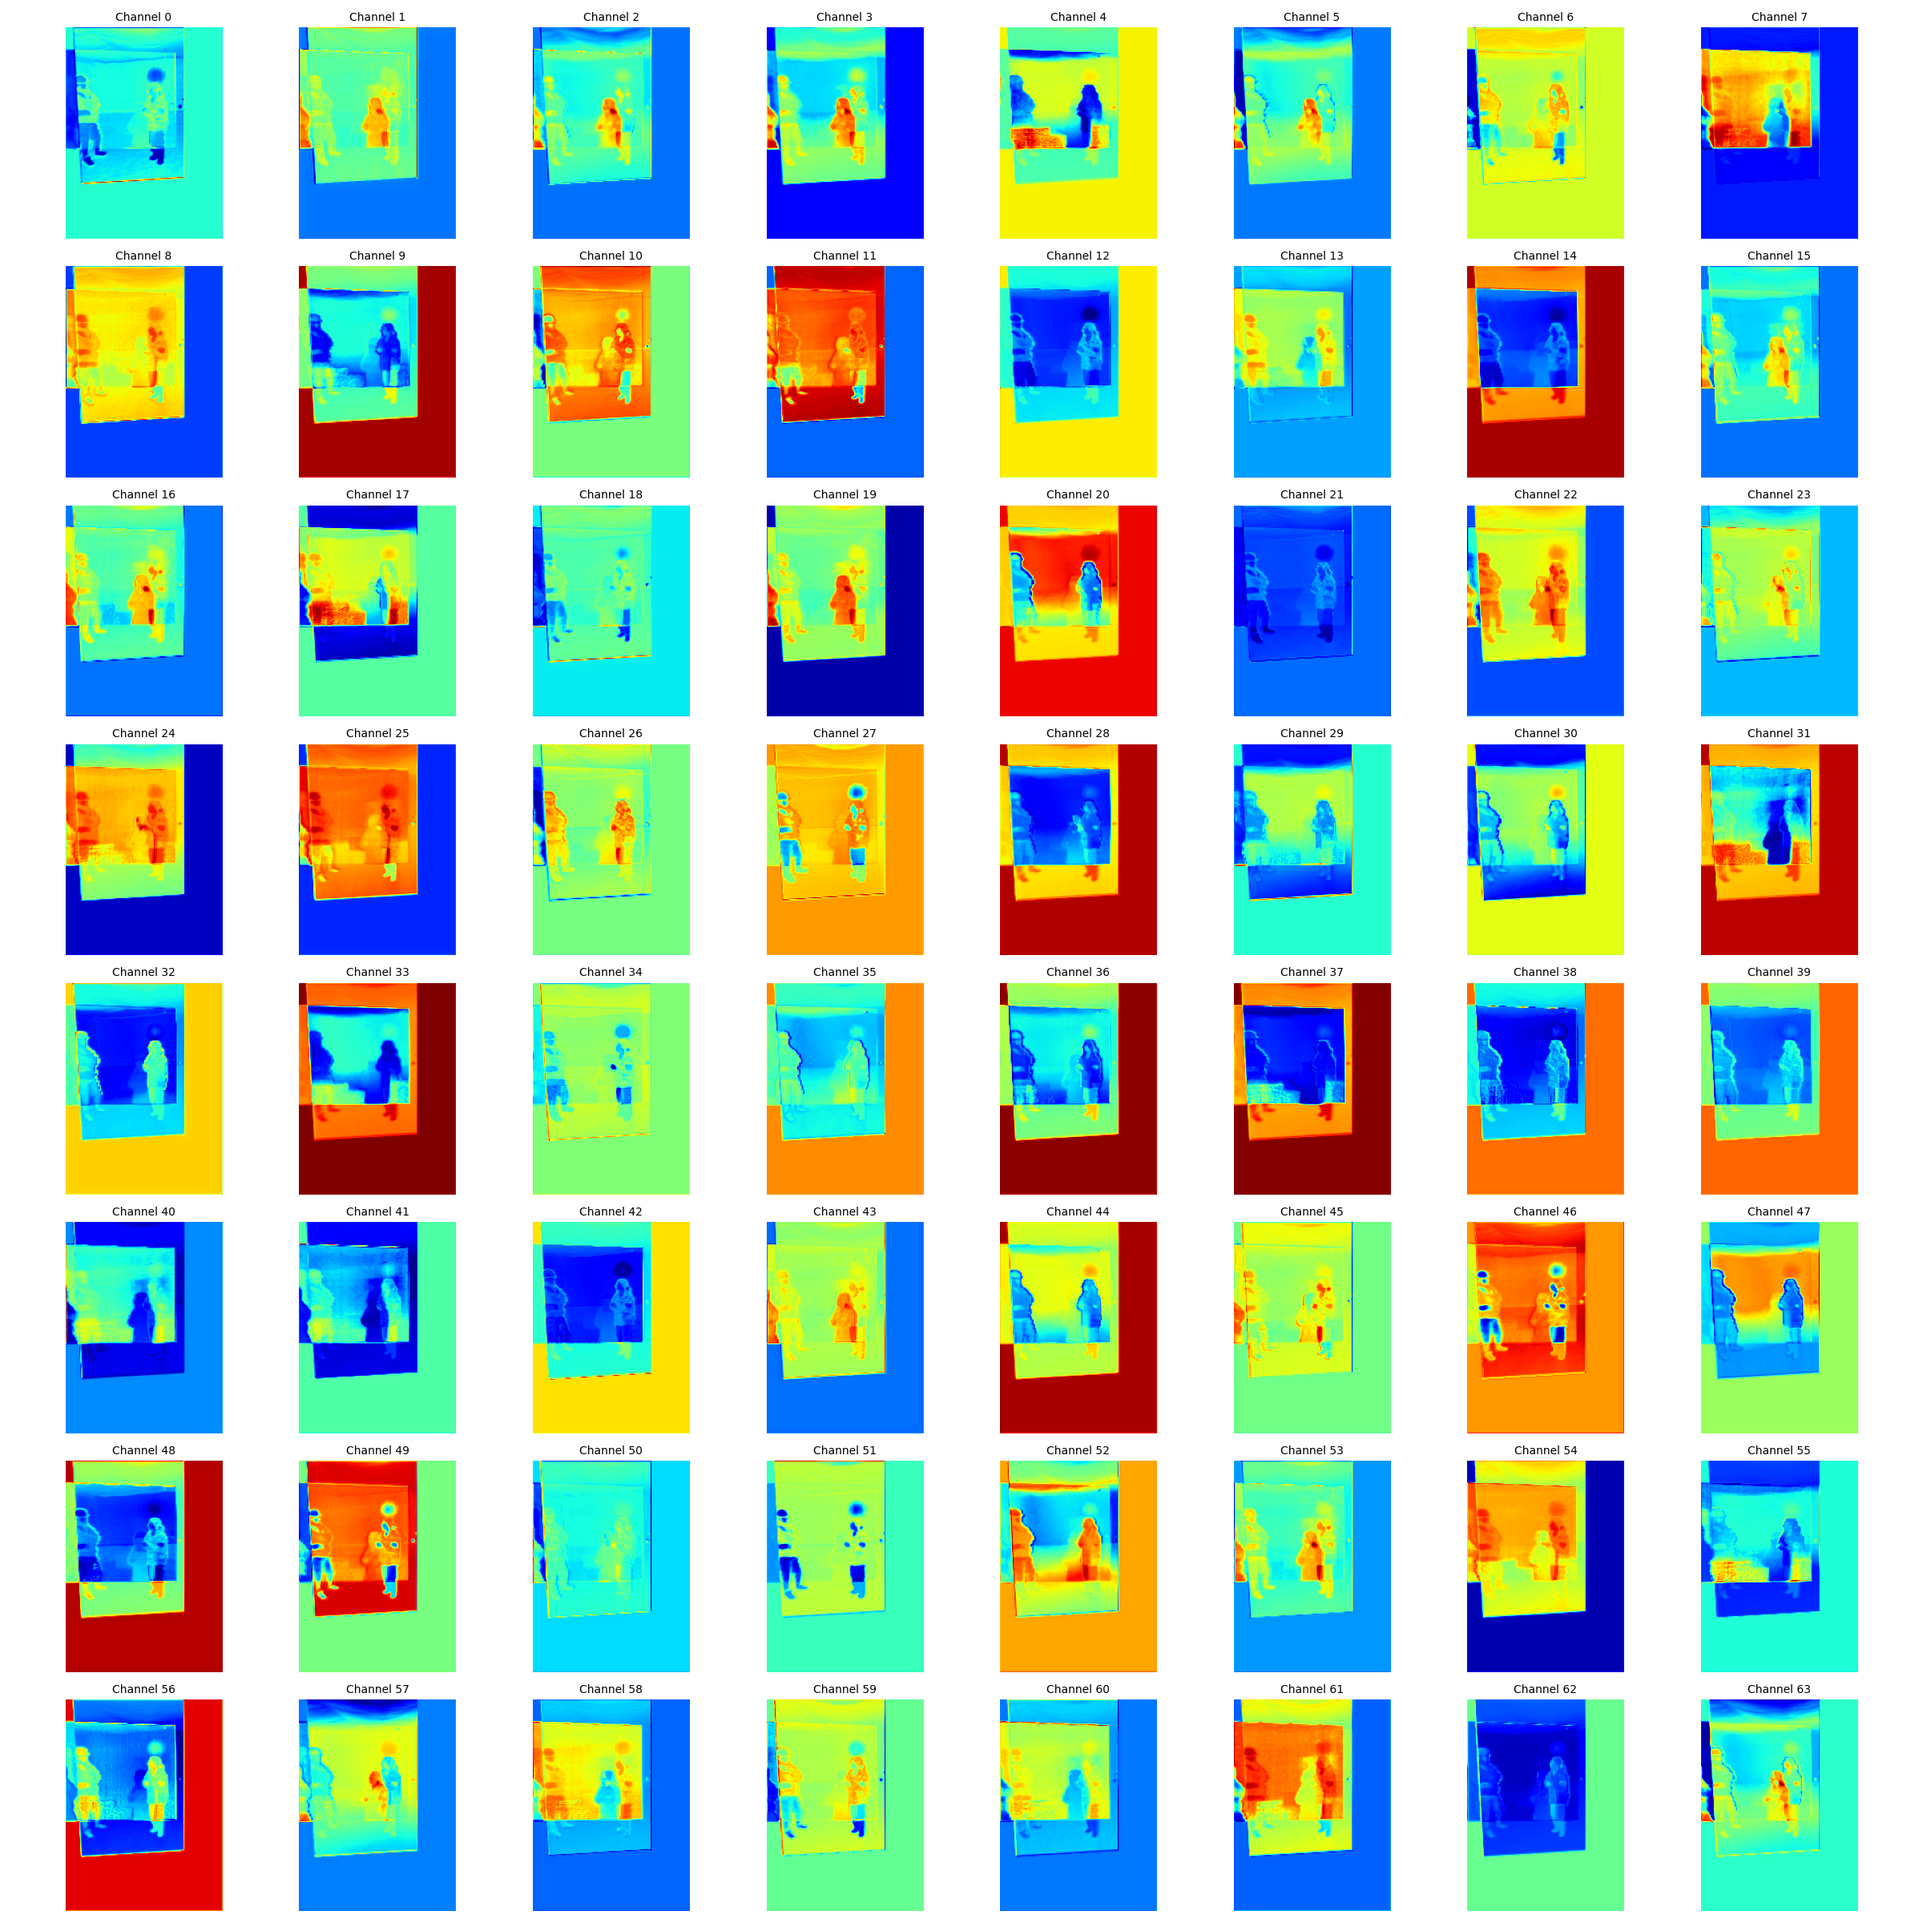
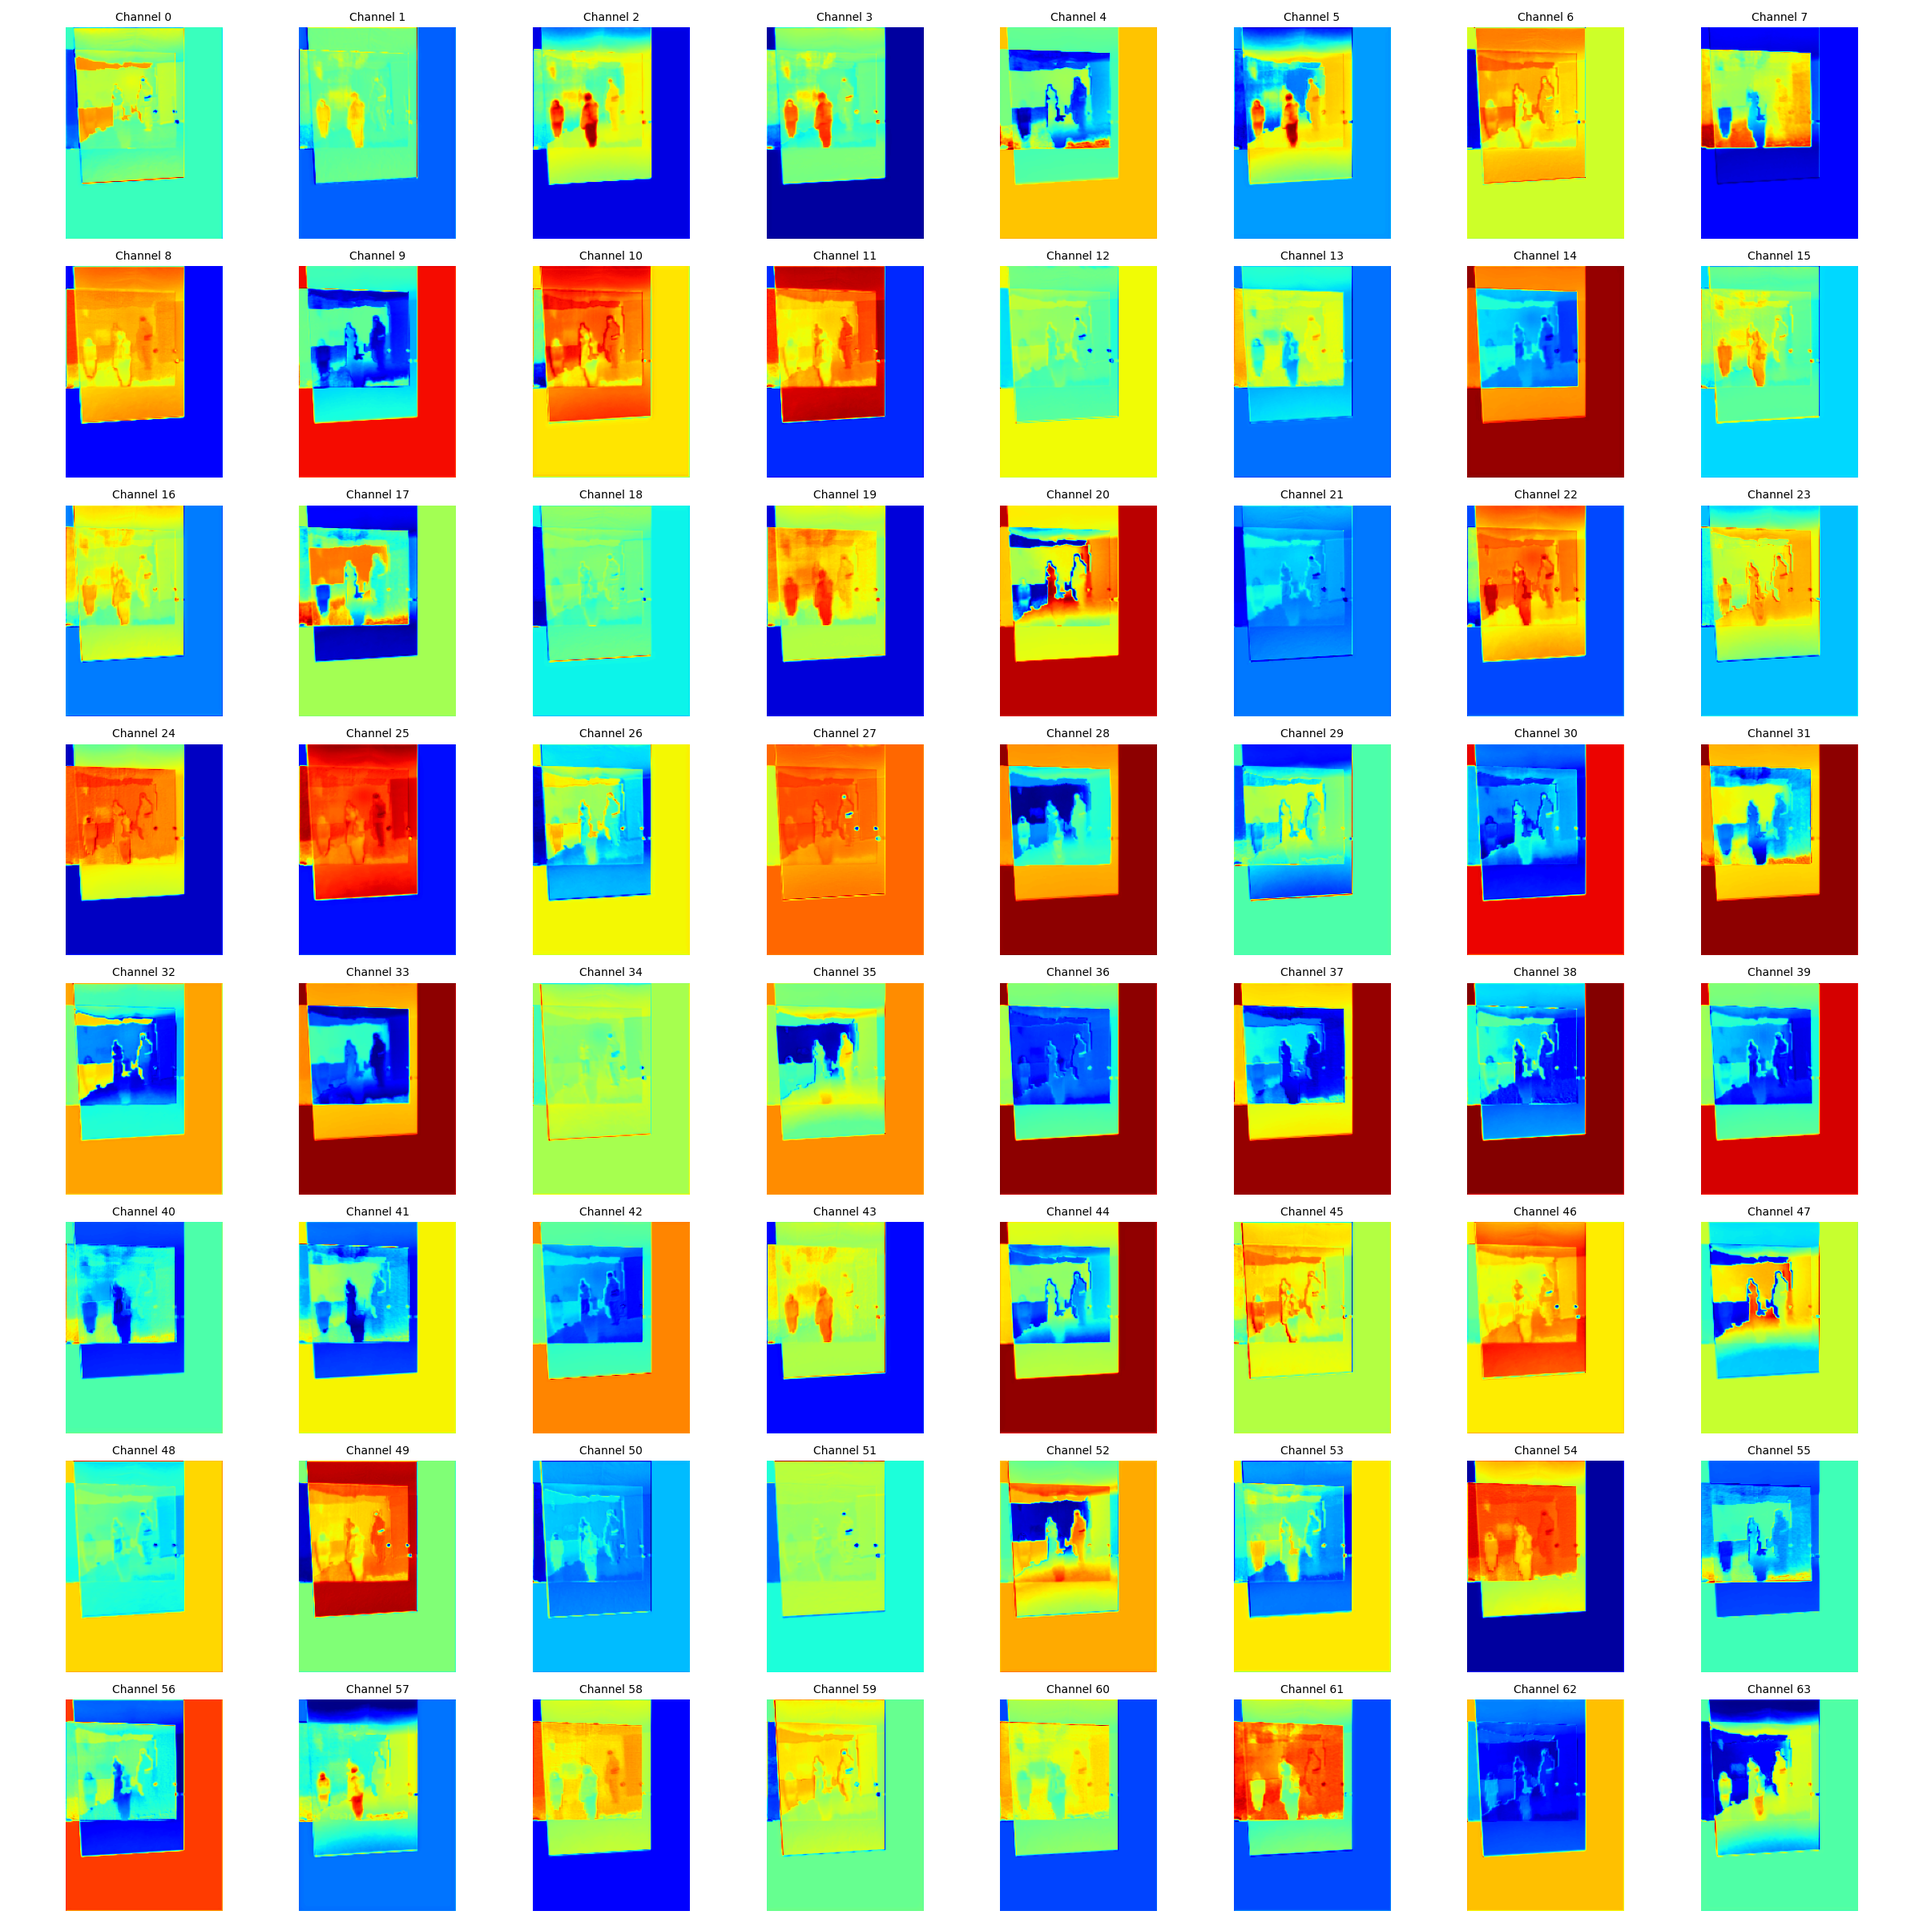
Update : cmnextp - proposed channel weighted softmix fusion method

diff --git a/mcdet/models/backbones/cmnextp.py b/mcdet/models/backbones/cmnextp.py
@@ -1,4 +1,4 @@
-# mcdet/models/backbones/cmnext_masked.py
+# mcdet/models/backbones/cmnextp.py
 
 import torch
 import math
@@ -50,8 +50,6 @@ def load_dualpath_model(model, model_file):
     msg = model.load_state_dict(state_dict, strict=False)
     print(f"[CMNext] Pretrained model loaded: {msg}")
     del state_dict
-
-
 
 def _no_grad_trunc_normal_(tensor, mean, std, a, b):
     # Cut & paste from PyTorch official master until it's in a few official releases - RW
@@ -155,7 +153,7 @@ class CMNextBaseModel(BaseModule):
 
 
 @MODELS.register_module()
-class CMNextMaskedBackbone(BaseModule):
+class CMNeXtPBackbone(BaseModule):
     """CMNext backbone for multimodal object detection.
     
     This backbone processes multimodal inputs (RGB, Depth, Event, LiDAR) 
@@ -171,7 +169,7 @@ class CMNextMaskedBackbone(BaseModule):
     """
     
     def __init__(self,
-                 backbone: str = 'CMNeXtMasked-B2',
+                 backbone: str = 'CMNeXtP-B2',
                  modals: List[str] = ['rgb', 'depth', 'event', 'lidar'],
                  out_indices: Tuple[int] = (0, 1, 2, 3),
                  frozen_stages: int = -1,
@@ -595,7 +593,7 @@ cmnext_settings = {
 }
 
 
-class CMNeXtMasked(nn.Module):
+class CMNeXtP(nn.Module):
     def __init__(self, model_name: str = 'B0', modals: list = ['rgb', 'depth', 'event', 'lidar']):
         super().__init__()
         self.iter = 0
@@ -666,14 +664,27 @@ class CMNeXtMasked(nn.Module):
                 FFM(dim=embed_dims[1], reduction=1, num_heads=num_heads[1], norm_layer=nn.BatchNorm2d),
                 FFM(dim=embed_dims[2], reduction=1, num_heads=num_heads[2], norm_layer=nn.BatchNorm2d),
                 FFM(dim=embed_dims[3], reduction=1, num_heads=num_heads[3], norm_layer=nn.BatchNorm2d)])
+            
+    def tokenselect2(self, x_ext: List[Tensor], module: nn.Module) -> Tuple[Tensor, List[Tensor], Tensor]:
+        """
+        [개선된 Soft Mix + 로깅 버전]
+        기존 soft mix 로직을 유지하면서, 각 모달리티의 기여도를 담고 있는
+        attention_weights 맵을 추가로 반환합니다.
+        """
+        # 1. 각 모달리티의 스코어 맵 계산
+        x_scores = module(x_ext)
 
-    def tokenselect(self, x_ext, module):    
-        x_scores = module(x_ext)                            #score 에서 token을 선택
-        for i in range(len(x_ext)):
-            x_ext[i] = x_scores[i] * x_ext[i] + x_ext[i]
-        x_f = functools.reduce(torch.max, x_ext)
-        return x_f, x_scores
-     
+        # 2. 스코어 정규화 (Softmax 적용)
+        stacked_scores = torch.cat(x_scores, dim=1)
+        attention_weights = F.softmax(stacked_scores, dim=1) # Shape: (B, num_modals, H, W)
+
+        # 3. 피쳐 가중합 (Weighted Sum)
+        stacked_features = torch.stack(x_ext, dim=1)
+        weighted_features = stacked_features * attention_weights.unsqueeze(2)
+        x_f = torch.sum(weighted_features, dim=1)
+
+        return x_f, x_scores, attention_weights
+    
     def forward(self, x: list) -> list:
         modal_list = ["depth", "ir", "lidar"]
         x_cam = x[0]        
@@ -683,13 +694,13 @@ class CMNeXtMasked(nn.Module):
         outs = []
         
         # ------------------------- STAGE 1 -------------------------
-        x_cam, H, W = self.patch_embed1(x_cam)
+        x_cam_p, H, W = self.patch_embed1(x_cam)
         for blk in self.block1:
-            x_cam = blk(x_cam, H, W)
+            x_cam = blk(x_cam_p, H, W)
         x1_cam = self.norm1(x_cam).reshape(B, H, W, -1).permute(0, 3, 1, 2)
         if self.num_modals > 0:
-            x_ext, _, _ = self.extra_downsample_layers[0](x_ext)
-            x_f, x_scores = self.tokenselect(x_ext, self.extra_score_predictor[0]) if self.num_modals > 1 else (x_ext[0], None)    
+            x_ext_down, _, _ = self.extra_downsample_layers[0](x_ext)
+            x_f, x_scores, winner_indices = self.tokenselect2(x_ext, self.extra_score_predictor[0]) if self.num_modals > 1 else (x_ext[0], None, None)
             for blk in self.extra_block1:
                 x_f = blk(x_f)
             x1_f_ = self.extra_norm1(x_f)
@@ -717,6 +728,12 @@ class CMNeXtMasked(nn.Module):
                             wandb.log({"val/stage1_FRM": wandb.Image("./wandb_val_img/stage1_FRM.png")})
                             vis_tensor_single_batch_grid(x_fused, batch=0, save_path="./wandb_val_img/stage1_FFM.png")
                             wandb.log({"val/stage1_FFM": wandb.Image("./wandb_val_img/stage1_FFM.png")})
+                           log_soft_mix_stats(
+                                attention_map=attention_weights,
+                                modality_names=self.modals,
+                                log_prefix="val/stage1"
+                            )
+                                   
 
             outs.append(x_fused)
             x_ext = [x_.reshape(B, H, W, -1).permute(0, 3, 1, 2) + x1_f for x_ in x_ext] if self.num_modals > 1 else [x1_f]
@@ -730,7 +747,7 @@ class CMNeXtMasked(nn.Module):
         x2_cam = self.norm2(x_cam).reshape(B, H, W, -1).permute(0, 3, 1, 2)
         if self.num_modals > 0:
             x_ext, _, _ = self.extra_downsample_layers[1](x_ext)
-            x_f, x_scores = self.tokenselect(x_ext, self.extra_score_predictor[1]) if self.num_modals > 1 else x_ext[0] 
+            x_f, x_scores, winner_indices = self.tokenselect2(x_ext, self.extra_score_predictor[1]) if self.num_modals > 1 else x_ext[0] 
             for blk in self.extra_block2:
                 x_f = blk(x_f)
             x2_f_ = self.extra_norm2(x_f)
@@ -755,6 +772,11 @@ class CMNeXtMasked(nn.Module):
                             wandb.log({"val/stage2_FRM": wandb.Image("./wandb_val_img/stage2_FRM.png")})
                             vis_tensor_single_batch_grid(x_fused, batch=0, save_path="./wandb_val_img/stage2_FFM.png")
                             wandb.log({"val/stage2_FFM": wandb.Image("./wandb_val_img/stage2_FFM.png")})
+                            log_soft_mix_stats(
+                                attention_map=attention_weights,
+                                modality_names=self.modals,
+                                log_prefix="val/stage2"
+                            )
                                    
             outs.append(x_fused)
             x_ext = [x_.reshape(B, H, W, -1).permute(0, 3, 1, 2) + x2_f for x_ in x_ext] if self.num_modals > 1 else [x2_f]
@@ -768,7 +790,7 @@ class CMNeXtMasked(nn.Module):
         x3_cam = self.norm3(x_cam).reshape(B, H, W, -1).permute(0, 3, 1, 2)
         if self.num_modals > 0:
             x_ext, _, _ = self.extra_downsample_layers[2](x_ext)
-            x_f, x_scores = self.tokenselect(x_ext, self.extra_score_predictor[2]) if self.num_modals > 1 else x_ext[0] 
+            x_f, x_scores, winner_indices = self.tokenselect2(x_ext, self.extra_score_predictor[2]) if self.num_modals > 1 else x_ext[0] 
             for blk in self.extra_block3:
                 x_f = blk(x_f)
             
@@ -794,6 +816,12 @@ class CMNeXtMasked(nn.Module):
                             wandb.log({"val/stage3_FRM": wandb.Image("./wandb_val_img/stage3_FRM.png")})
                             vis_tensor_single_batch_grid(x_fused, batch=0, save_path="./wandb_val_img/stage3_FFM.png")
                             wandb.log({"val/stage3_FFM": wandb.Image("./wandb_val_img/stage3_FFM.png")})
+                           log_soft_mix_stats(
+                                attention_map=attention_weights,
+                                modality_names=self.modals,
+                                log_prefix="val/stage3"
+                            )
+                                   
                                  
             outs.append(x_fused)
             x_ext = [x_.reshape(B, H, W, -1).permute(0, 3, 1, 2) + x3_f for x_ in x_ext] if self.num_modals > 1 else [x3_f]
@@ -807,7 +835,7 @@ class CMNeXtMasked(nn.Module):
         x4_cam = self.norm4(x_cam).reshape(B, H, W, -1).permute(0, 3, 1, 2)
         if self.num_modals > 0:
             x_ext, _, _ = self.extra_downsample_layers[3](x_ext)
-            x_f, x_scores = self.tokenselect(x_ext, self.extra_score_predictor[3]) if self.num_modals > 1 else x_ext[0] 
+            x_f, x_scores, winner_indices = self.tokenselect2(x_ext, self.extra_score_predictor[3]) if self.num_modals > 1 else x_ext[0] 
             for blk in self.extra_block4:
                 x_f = blk(x_f)
             
@@ -832,6 +860,12 @@ class CMNeXtMasked(nn.Module):
                             wandb.log({"val/stage4_FRM": wandb.Image("./wandb_val_img/stage4_FRM.png")})
                             vis_tensor_single_batch_grid(x_fused, batch=0, save_path="./wandb_val_img/stage4_FFM.png")
                             wandb.log({"val/stage4_FFM": wandb.Image("./wandb_val_img/stage4_FFM.png")})
+                           log_soft_mix_stats(
+                                attention_map=attention_weights,
+                                modality_names=self.modals,
+                                log_prefix="val/stage4"
+                            )
+                                   
             outs.append(x_fused)
         else:
             outs.append(x4_cam)
@@ -924,3 +958,52 @@ def vis_tensor_single_batch_grid(tensor:torch.tensor, batch=0, save_path='vis_te
     
 
     
+
+def log_soft_mix_stats(
+    attention_map: Tensor,
+    modality_names: List[str],
+    log_prefix: str,
+    batch_idx: int = 0
+):
+    """
+    Soft Mix의 기여도 통계를 계산하고 시각화하여 wandb에 로깅합니다.
+    """
+    if wandb is None or attention_map is None:
+        return
+
+    # --- 1. 텍스트 통계 로깅 (평균 기여도) ---
+    # attention_map shape: (B, num_modals, H, W)
+    avg_contributions = attention_map[batch_idx].mean(dim=[1, 2]) # 각 모달리티 맵의 평균값 계산
+    
+    stats_dict = {}
+    for i, name in enumerate(modality_names):
+        # 예: "val/stage1_contribution/depth": 0.354 (35.4%)
+        stats_dict[f"{log_prefix}_contribution/{name}"] = avg_contributions[i].item()
+    wandb.log(stats_dict)
+
+    # --- 2. 시각화 맵 로깅 (RGB 기여도 맵) ---
+    # 각 모달리티의 기여도를 R, G, B 채널에 매핑합니다.
+    # (주의: 보조 모달리티가 3개일 때 가장 직관적입니다)
+    num_modals = attention_map.shape[1]
+    if num_modals >= 3:
+        # (num_modals, H, W) -> (H, W, num_modals) -> (H, W, 3)
+        contribution_rgb = attention_map[batch_idx][:3].permute(1, 2, 0)
+    elif num_modals == 2:
+        # R, G 채널만 사용하고 B는 0으로 채웁니다.
+        zeros = torch.zeros_like(attention_map[batch_idx][0])
+        contribution_rgb = torch.stack([attention_map[batch_idx][0], attention_map[batch_idx][1], zeros], dim=-1)
+    else: # num_modals == 1
+        # R 채널만 사용 (흑백)
+        ch = attention_map[batch_idx][0]
+        contribution_rgb = torch.stack([ch, ch, ch], dim=-1)
+
+    # 0~1 범위를 0~255 범위의 이미지로 변환
+    color_map_np = (contribution_rgb * 255).byte().cpu().numpy()
+    
+    # wandb에 이미지 로깅
+    caption = ""
+    for i, name in enumerate(modality_names):
+        if i < 3:
+            caption += f"{['R', 'G', 'B'][i]}:{name} "
+            
+    wandb.log({f"{log_prefix}_contribution_map": wandb.Image(color_map_np, caption=caption.strip())})

diff --git a/mcdet/models/backbones/__init__.py b/mcdet/models/backbones/__init__.py
@@ -11,8 +11,8 @@ from .cmnext import CMNextBackbone
 from .stitchfusion import StitchFusionBackbone
 from .custom_resnet import ATTResNet
 from .geminifusion import GeminiFusionBackbone
-from .cmnext_masked import CMNextMaskedBackbone
+from .cmnextp import CMNeXtPBackbone
 # from .base_backbone import BaseBackbone
 
 
-__all__ = ['CMNextBackbone', 'StitchFusionBackbone', 'GeminiFusionBackbone']
+__all__ = ['CMNextBackbone', 'StitchFusionBackbone', 'GeminiFusionBackbone', 'CMNeXtPBackbone']
